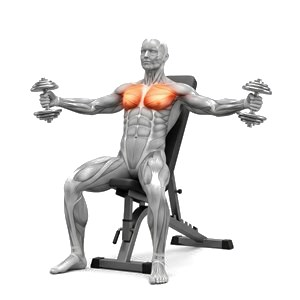
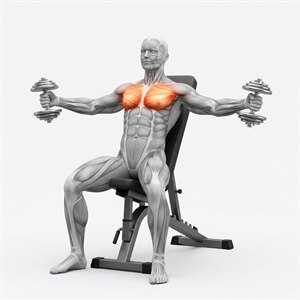
fix(exercises): maintain consistent soft studio gray gradient across all thumbnails

diff --git a/app/index.tsx b/app/index.tsx
@@ -4913,7 +4913,7 @@ export default function SinglePageLandingScreen() {
                                 style={[
                                   styles.modalExerciseThumbContainer,
                                   {
-                                    backgroundColor: '#FFFFFF',
+                                    backgroundColor: '#F1F2F4',
                                     borderColor: isDarkMode ? 'rgba(255, 255, 255, 0.12)' : 'rgba(0, 0, 0, 0.06)',
                                   },
                                 ]}
